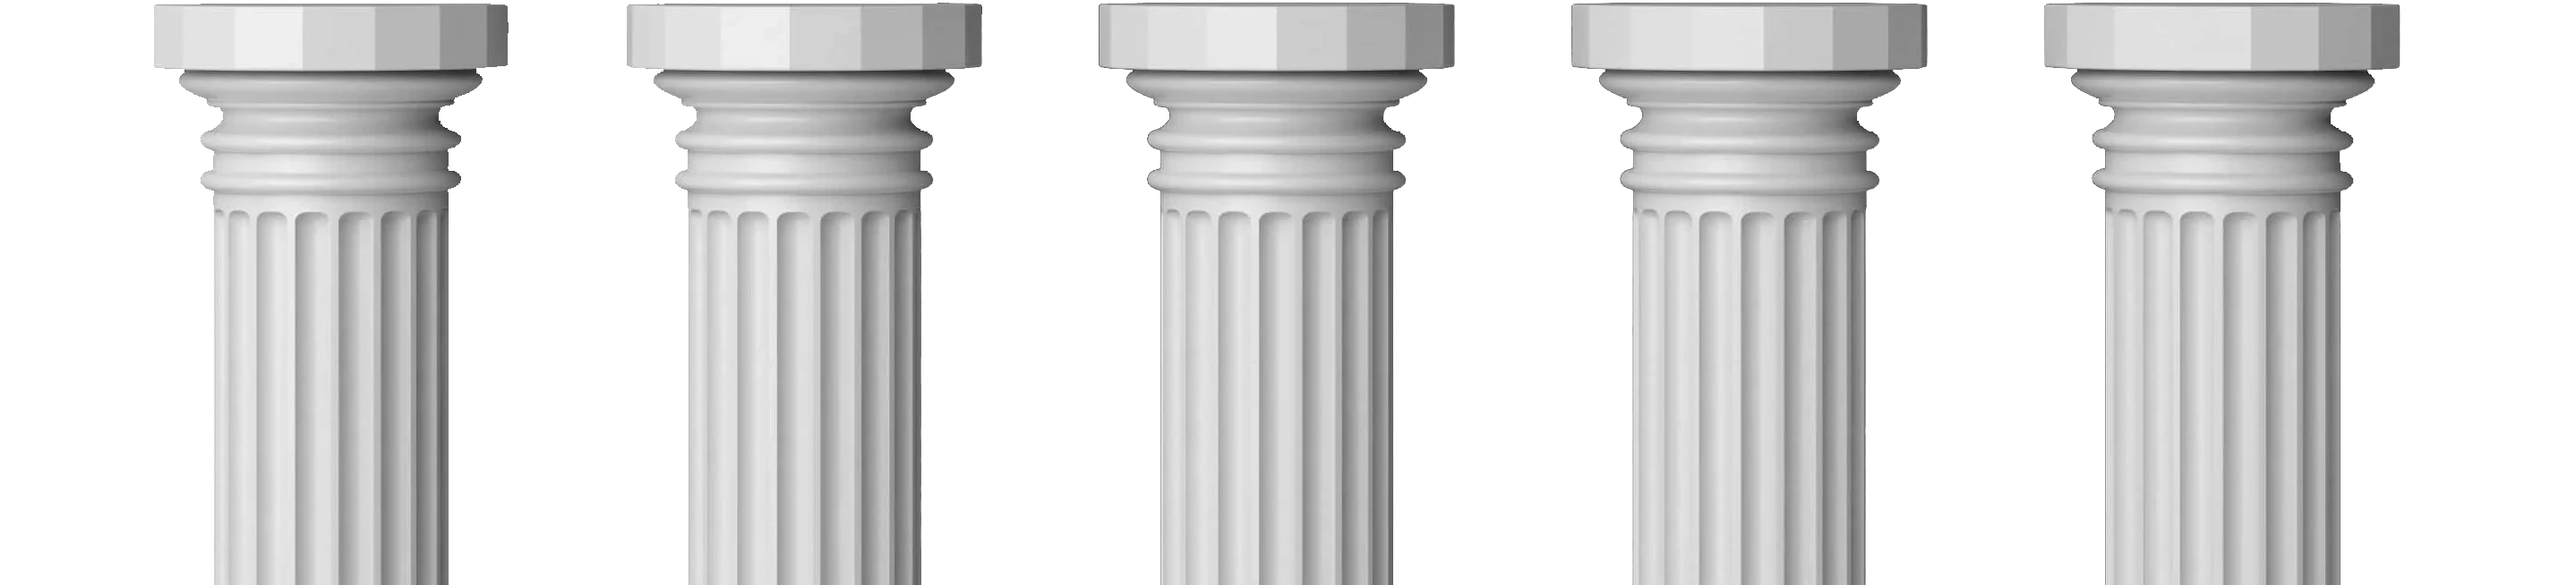
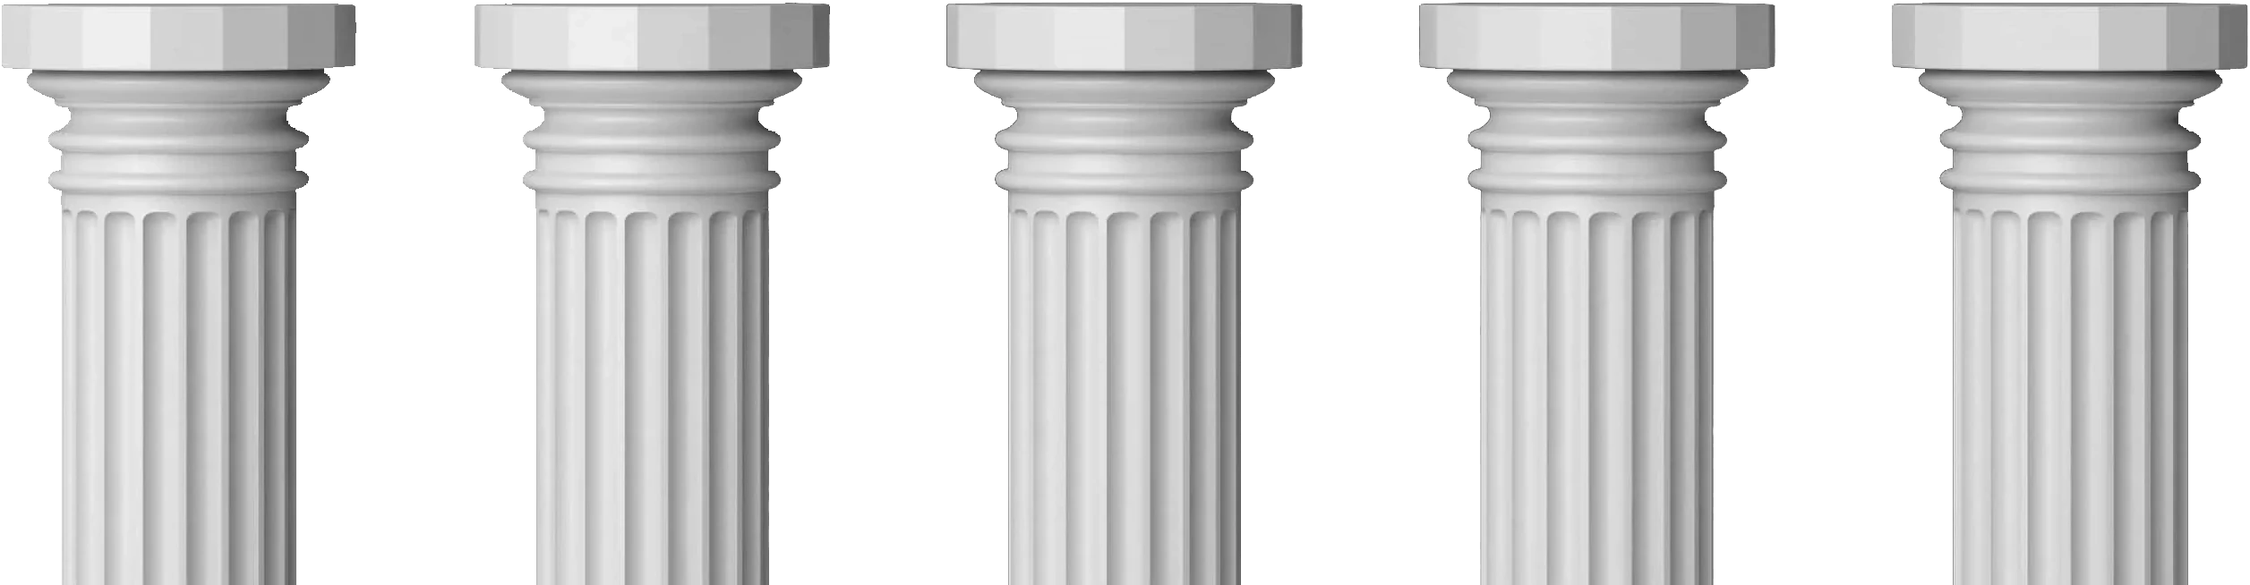
dzialajace kolumny dodac zrobic inaczej na wieksze urzadzenia

diff --git a/src/components/About.jsx b/src/components/About.jsx
@@ -3,6 +3,7 @@ import { gsap } from "gsap";
 import { ScrollTrigger } from "gsap/ScrollTrigger";
 import zdjecie from "../Image/zdjecie.jpg";
 import pillars from "../Image/pillars.webp";
+import column from "../Image/column.webp";
 gsap.registerPlugin(ScrollTrigger);
 
 const About = () => {
@@ -36,26 +37,84 @@ const About = () => {
 
   return (
     <div>
-      {/* <div className="first flex justify-center items-center h-screen w-screen bg-light dark:bg-dark">
-        <h1 className="texttt text-5xl">Hello Hello</h1>
-      </div> */}
       <div className="first relative h-screen w-screen font-main bg-light dark:bg-dark">
         <h1 className="texttt absolute left-1/2 top-1/2 -translate-x-1/2 -translate-y-1/2 text-3xl">
           About me
         </h1>
-        <div className="next relative h-screen text-3xl">
-          <img
-            className="filarLeft absolute left-0 -translate-x-1/2 top-1/2 rotate-90 -translate-y-1/2"
-            src={pillars}
-          ></img>
-          <img
-            className="filarRight absolute right-0 translate-x-1/2 bottom-1/2 rotate-[-90deg] translate-y-1/2"
-            src={pillars}
-          ></img>
+        <div className="filarLeft grid grid-rows-6 grid-cols-4 h-screen w-screen bg-black">
+          {/* First Row */}
+          <div className="flex justify-start col-start-1 row-start-2">
+            <img
+              className="object-contain h-full rotate-90"
+              alt="column"
+              src={column}
+            />
+          </div>
+          <div className="flex justify-center items-center col-start-2 row-start-2 col-span-2 text-light">
+            <h1>Creative</h1>
+          </div>
+          <div className="flex justify-end col-start-4 row-start-2">
+            <img
+              className="object-contain h-full rotate-[270deg]"
+              src={column}
+              alt="column"
+            />
+          </div>
+          {/* Second Row */}
+          <div className="flex justify-start col-start-1 row-start-3">
+            <img
+              className="object-contain h-full rotate-90"
+              alt="column"
+              src={column}
+            />
+          </div>
+          <div className="flex justify-center items-center col-start-2 row-start-3 col-span-2 text-light">
+            <h1>Creative</h1>
+          </div>
+          <div className="flex justify-end col-start-4 row-start-3">
+            <img
+              className="object-contain h-full rotate-[270deg]"
+              src={column}
+              alt="column"
+            />
+          </div>
+          {/* Third Row */}
+          <div className="flex justify-start col-start-1 row-start-4">
+            <img
+              className="object-contain h-full rotate-90"
+              alt="column"
+              src={column}
+            />
+          </div>
+          <div className="flex justify-center items-center col-start-2 row-start-4 col-span-2 text-light">
+            <h1>Creative</h1>
+          </div>
+          <div className="flex justify-end col-start-4 row-start-4">
+            <img
+              className="object-contain h-full rotate-[270deg]"
+              src={column}
+              alt="column"
+            />
+          </div>
+          {/* Fourth Row */}
+          <div className="flex justify-start col-start-1 row-start-5">
+            <img
+              className="object-contain h-full rotate-90"
+              alt="column"
+              src={column}
+            />
+          </div>
+          <div className="flex justify-center items-center col-start-2 row-start-5 col-span-2 text-light">
+            <h1>Creative</h1>
+          </div>
+          <div className="flex justify-end col-start-4 row-start-5">
+            <img
+              className="object-contain h-full rotate-[270deg]"
+              src={column}
+              alt="column"
+            />
+          </div>
         </div>
-        {/* <div className="next absolute flex justify-center items-center h-full text-3xl max-h-screen">
-          <img src={zdjecie}></img>
-        </div> */}
       </div>
     </div>
   );
